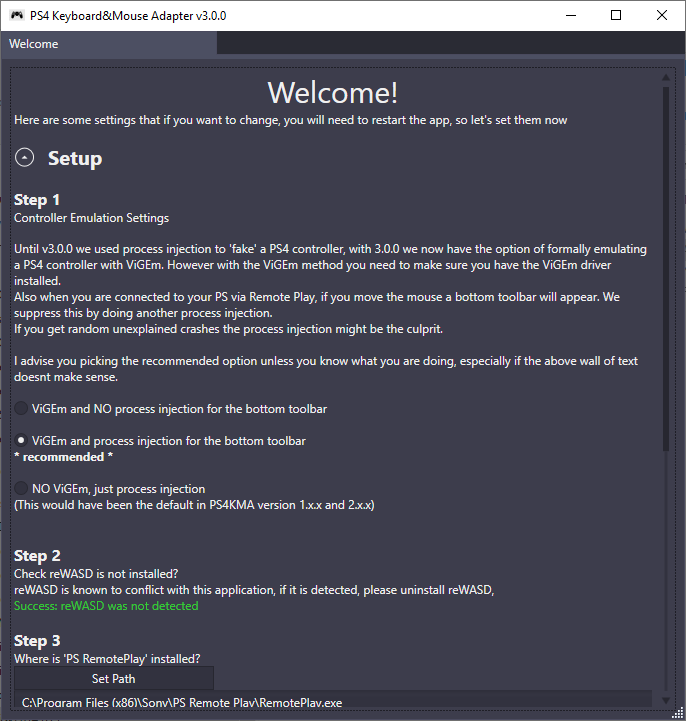
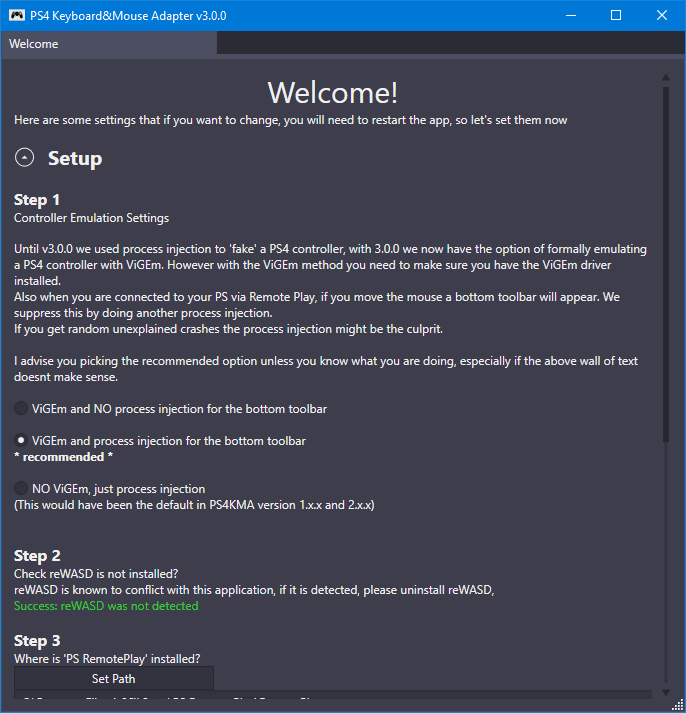
3.0.0 wip - fixing window size and updating screenshots

diff --git a/code/PS4KeyboardAndMouseAdapter/UI/MainWindowView.xaml b/code/PS4KeyboardAndMouseAdapter/UI/MainWindowView.xaml
@@ -8,7 +8,7 @@
 
     Title="{Binding WindowTitle}"
 
-    Height="700" 
+    Height="720" 
     MinHeight="400"
         
     Width="700" 
